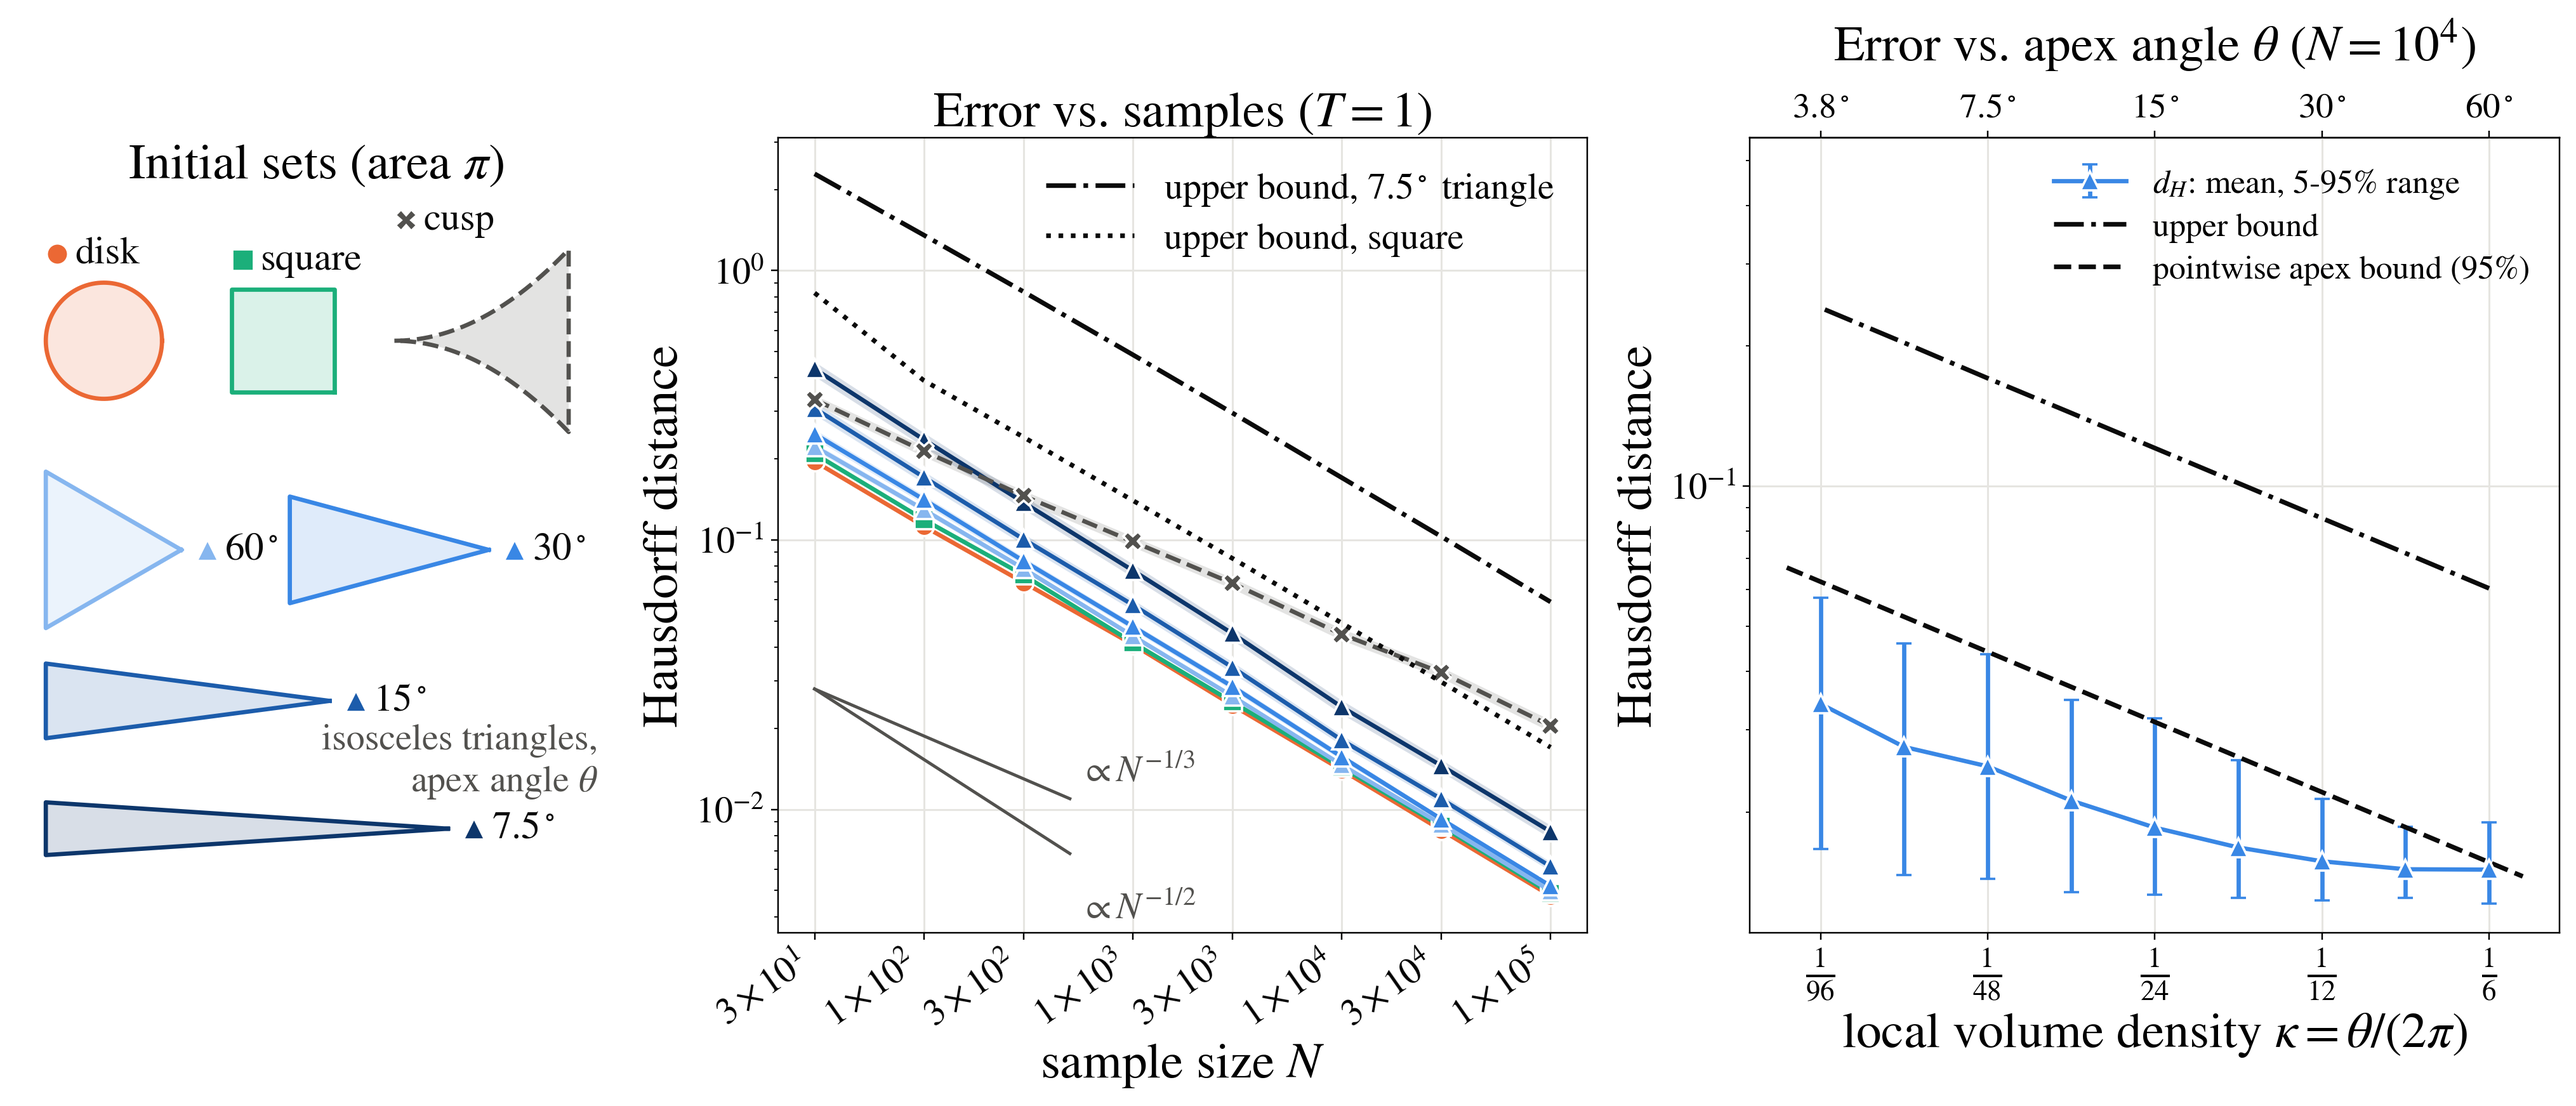
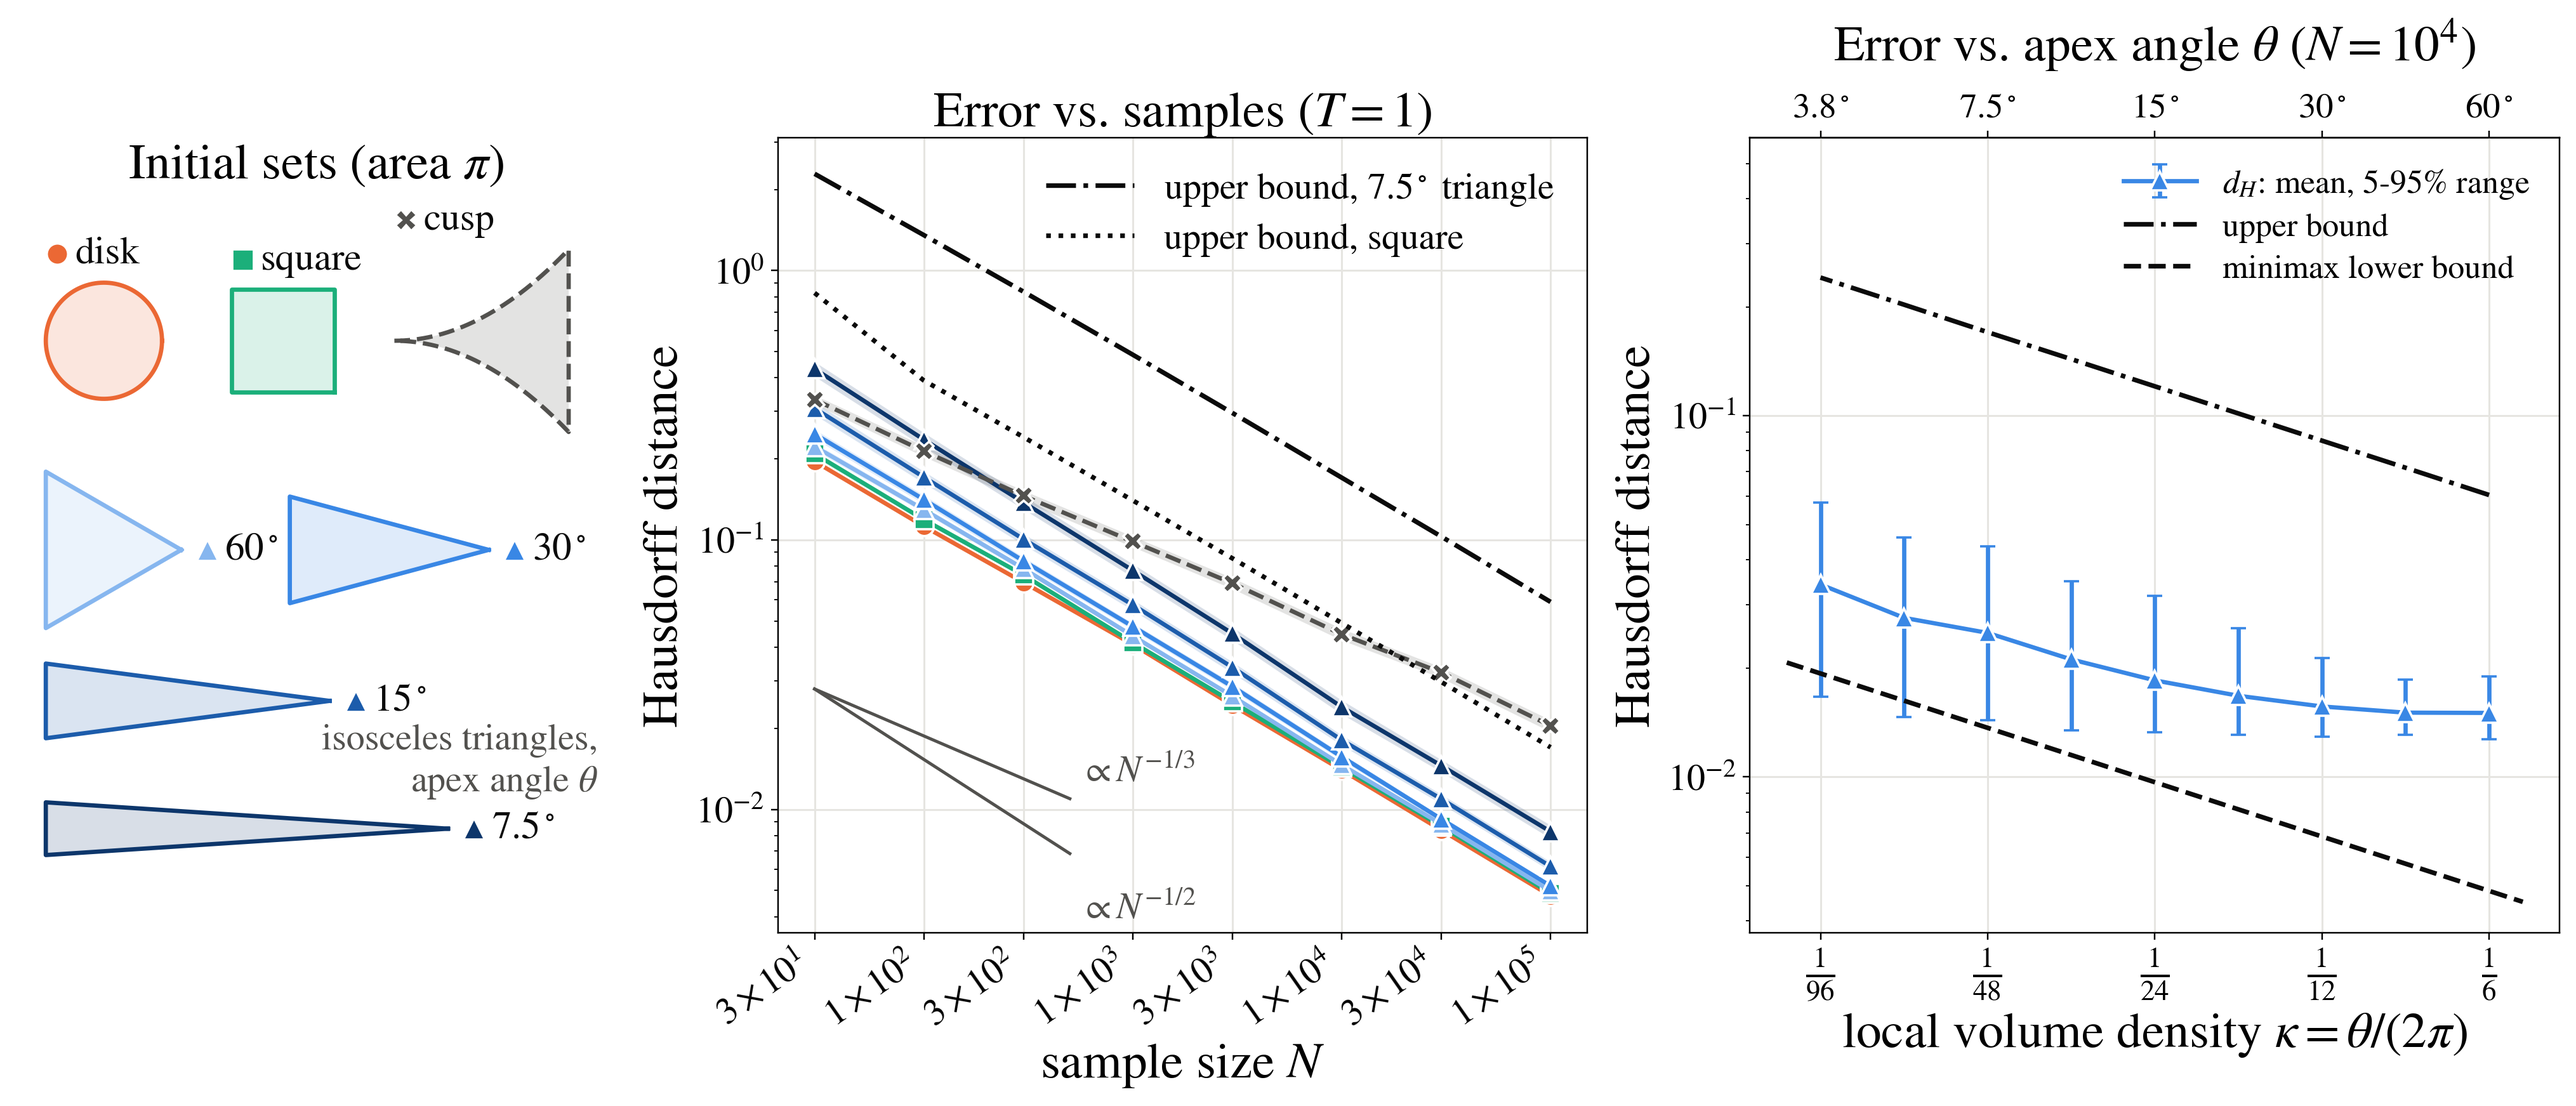
Restore minimax lower bound in corner-angle experiment

diff --git a/experiments/corner_angle_scaling.py b/experiments/corner_angle_scaling.py
@@ -13,12 +13,10 @@ the samples, and the error is its exact Hausdorff distance to the reachable set.
                    N = 10^4
 
 Every condition has 200 trials.  The theory curves are the upper bound for
-standard and convex sets and the pointwise apex obstruction for the plotted
-triangle, both solved for r.  For a triangle whose error is governed by its
-apex, P(d_* > r) = (1 - kappa (e^{-mu T} r / R)^2)^N, so the 95% quantile of
-d_* is an instance-level lower bound; the minimax bound of Theorem 2 is a
-worst-case statement over instances and is not plotted as a lower bound for
-each shape.  The angle panel shows apex angles down to ANGLE_PLOT_MIN_DEG
+standard and convex sets and the minimax lower bound of Theorem 2, both
+solved for r at delta = 0.05.  The lower curve concerns the family with
+standardness scale lambda <= 3 R / 32; it is not a pointwise lower bound for
+each triangle.  The angle panel shows apex angles down to ANGLE_PLOT_MIN_DEG
 (kappa >= 1/96); the thinner triangles of the sweep enter only the slope fit.
 
     python -m experiments.corner_angle_scaling              # run + plot
@@ -35,7 +33,7 @@ import matplotlib.pyplot as plt
 import numpy as np
 from shapely.geometry import Polygon
 
-from reachapprox.bounds import certified_accuracy
+from reachapprox.bounds import certified_accuracy, lower_bound_accuracy
 from reachapprox.flows import spiral_flow
 from reachapprox.geometry import (
     CENTER,
@@ -166,18 +164,6 @@ def theory_parameters(kind: str, angle_deg: float) -> dict:
         diameter = float(np.max(np.linalg.norm(vertices[:, None, :] - vertices[None, :, :], axis=2)))
     return {"n": N_DIM, "mu": RATE, "R": COMMON_R, "kappa": kappa, "lam": lam, "diameter": diameter,
             "convex": True, "rho": RHO, "delta": DELTA}
-
-
-def pointwise_apex_quantile(kappa, sample_size: int, delta: float = DELTA) -> np.ndarray:
-    """(1-delta) quantile of d_* from P(d_* > s) = (1 - kappa (e^{-mu T} s / R)^n)^N.
-
-    This is an instance-level lower bound on the Hausdorff error of the
-    endpoint cloud for any shape whose smallest local-volume corner is the
-    apex; unlike the minimax bound, it applies to the plotted triangle itself.
-    """
-    kappa = np.asarray(kappa, dtype=float)
-    return np.exp(RATE * HORIZON) * COMMON_R * (1.0 - delta ** (1.0 / sample_size)) ** (1.0 / N_DIM) / kappa ** (
-        1.0 / N_DIM)
 
 
 def flow(points: np.ndarray) -> np.ndarray:
@@ -318,14 +304,15 @@ def plot_figure(stats: dict) -> None:
     dense_kappa = np.geomspace(kappas.min() / 1.15, kappas.max() * 1.15, 200)
     upper = np.array([certified_accuracy(ANGLE_SWEEP_SAMPLE_SIZE, HORIZON, **theory_parameters("triangle", a))
                       for a in angles])
-    pointwise = pointwise_apex_quantile(dense_kappa, ANGLE_SWEEP_SAMPLE_SIZE)
+    lower = lower_bound_accuracy(ANGLE_SWEEP_SAMPLE_SIZE, HORIZON, n=N_DIM, mu=RATE,
+                                 R=COMMON_R, kappa=dense_kappa, rho=RHO, delta=DELTA)
     color = TRIANGLE_RAMP[30.0]
     ax_angle.errorbar(kappas, sweep["mean"], yerr=(sweep["mean"] - sweep["q05"], sweep["q95"] - sweep["mean"]),
                       color=color, marker="^", markersize=10, markeredgecolor="white", markeredgewidth=1.2,
                       linewidth=2.2, capsize=4, label=r"$d_H$: mean, 5-95% range")
     ax_angle.plot(kappas, upper, color=INK, linestyle="-.", linewidth=2.4, label="upper bound")
-    ax_angle.plot(dense_kappa, pointwise, color=INK, linestyle="--", linewidth=2.4,
-                  label="pointwise apex bound (95%)")
+    ax_angle.plot(dense_kappa, lower, color=INK, linestyle="--", linewidth=2.4,
+                  label="minimax lower bound")
     ax_angle.set_xscale("log")
     ax_angle.set_xticks(kappas[::2])
     ax_angle.set_xticklabels([rf"$\frac{{1}}{{{360.0 / a:.0f}}}$" for a in angles[::2]])
@@ -340,7 +327,7 @@ def plot_figure(stats: dict) -> None:
     ax_angle.set_title(rf"Error vs. apex angle $\theta$ ($N=10^{{{int(np.log10(ANGLE_SWEEP_SAMPLE_SIZE))}}}$)", pad=40)
     handles, labels = ax_angle.get_legend_handles_labels()
     order = [labels.index(label) for label in (r"$d_H$: mean, 5-95% range", "upper bound",
-                                                "pointwise apex bound (95%)")]
+                                                "minimax lower bound")]
     ax_angle.legend([handles[i] for i in order], [labels[i] for i in order], loc="upper right", frameon=False,
                     fontsize=17, handlelength=2.2, labelspacing=0.35)
 

diff --git a/README.md b/README.md
@@ -105,9 +105,10 @@ square, isosceles triangles of apex angle $\theta$ ($\kappa = \theta/2\pi$), and
   the logarithm), with or without corners.  The cusp, which is not standard, decays with slope $-0.34$
   ($N^{-1/3}$).
 * **Constant.** For thin corners the error is the distance from the apex to the cloud, whose law
-  $\Pr(d > s) = (1 - \kappa (e^{-\mu T}s/R)^2)^N$ is exact, and it grows like $\kappa^{-1/2}$ (fitted
+  $\Pr(d > s) = (1 - \kappa (e^{-\mu T}s/R)^2)^N$ holds within the local cone, and it grows like $\kappa^{-1/2}$ (fitted
   exponent $-0.49$).  The 95% quantile stays a factor 3–5 below the upper bound and a factor 3–4 above
-  the lower bound, with the same slope in $\kappa$.
+  the minimax lower curve, with the same slope in $\kappa$. The curve is the family-level bound of Theorem 2,
+  solved for accuracy at $\delta=0.05$ and a standardness scale $\lambda\le3R/32$.
 
 ### The horizon enters through $\mu$, not through $L$
 
